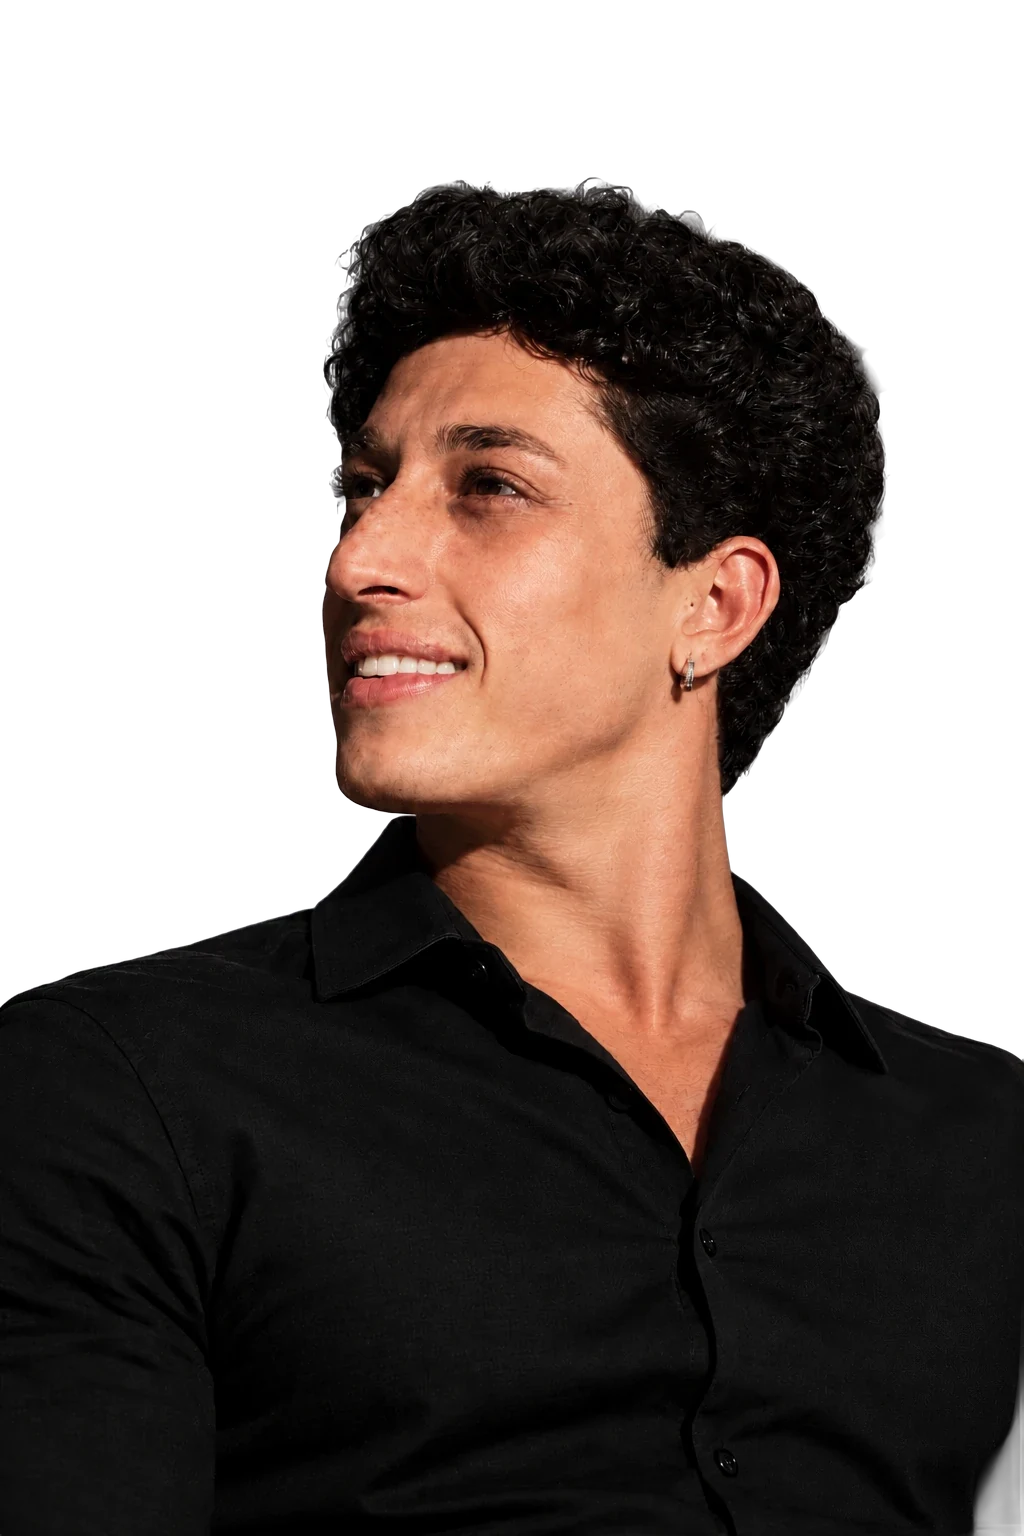
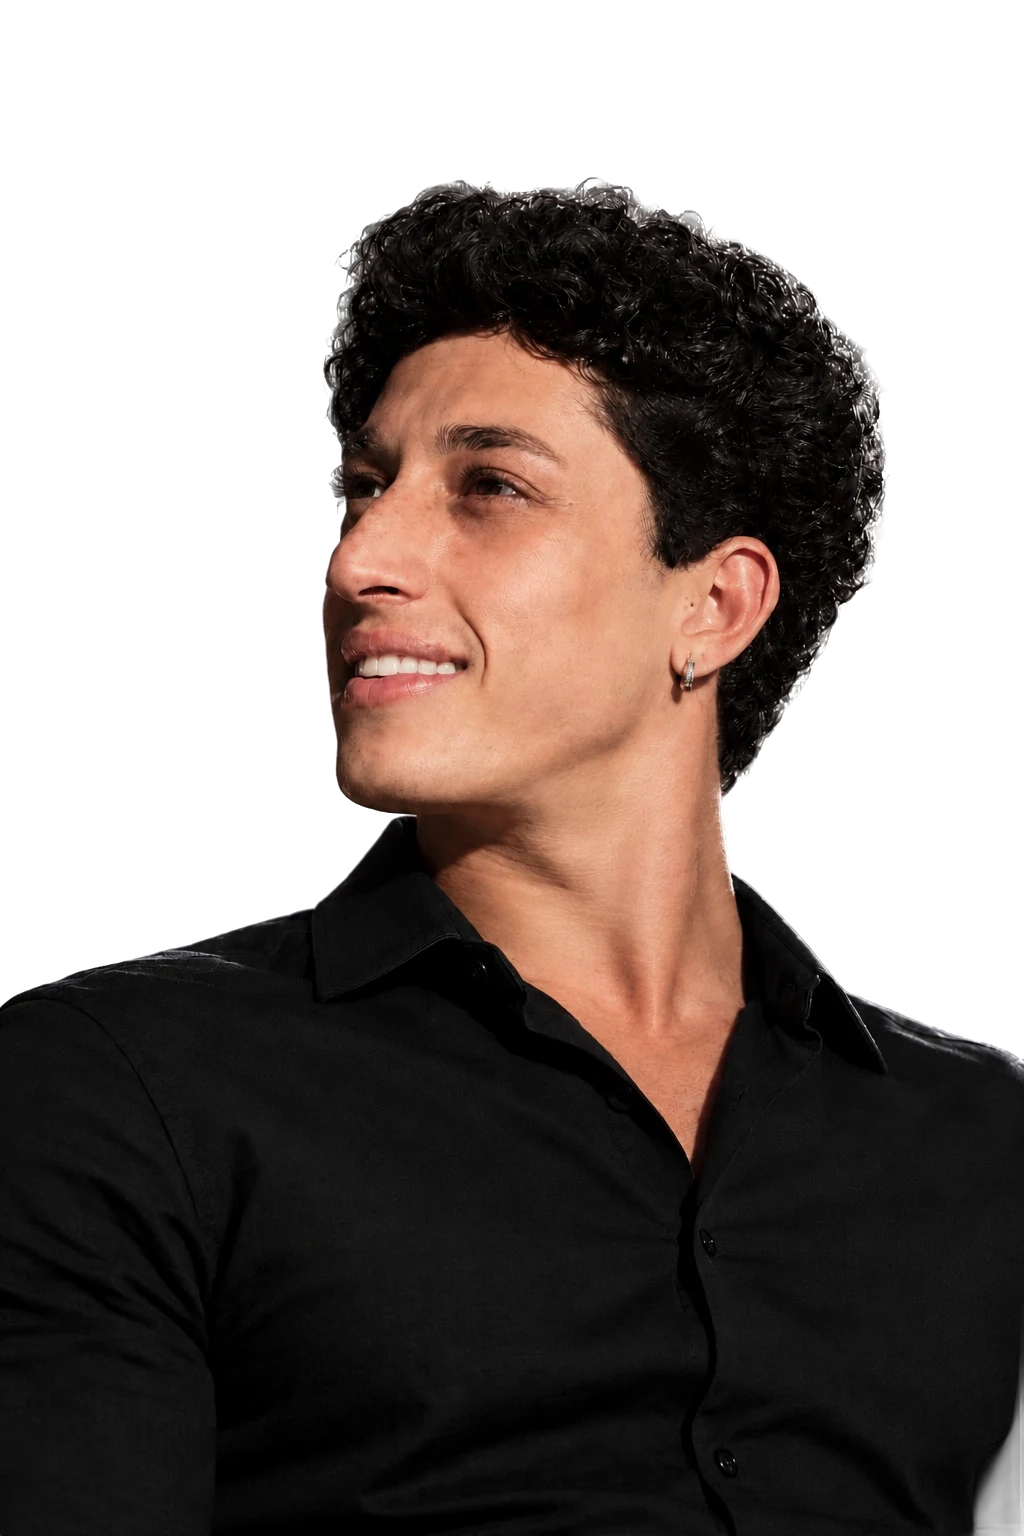
Hero com a foto nova, notebook já abre com os efeitos, frase final sem corte e 21 dias de suporte
- Hero: foto nova do Gabriel (mesmo enquadramento), recortada com o mesmo molde da anterior, então a luz de
  contorno, a luz laranja e a máscara dos ombros continuam iguais; borda do cabelo sem o cinza do estúdio.
  Um tamanho só (1024x1536, a resolução da foto); saem as versões 1536/2048 ampliadas da foto antiga
- Projetos: o vídeo do site começa quando o notebook entra, então a tampa já abre com os efeitos rodando
  (antes aparecia a imagem parada e o vídeo só entrava depois da tampa abrir); primeiro vídeo baixa mais cedo
- "Sites que vendem enquanto você dorme.": a máscara da animação cortava o acento de "você" e as pontas do
  itálico; ela passa um pouco das bordas da palavra (com margem negativa, o texto não sai do lugar)
- Suporte de 7 para 21 dias (FAQ e Termos de uso; data dos Termos atualizada)

Claude-Session: https://claude.ai/code/session_01VHr8XKmFyR6S9x4N3cgYgt

diff --git a/js/main.js b/js/main.js
@@ -441,8 +441,9 @@ document.querySelectorAll('.about-areas ol').forEach((list) => {
   if (slides.length) {
     const count = pj.querySelector('.pj-count b'), dots = [...pj.querySelectorAll('.pj-dots i')];
     let cur = -1, inView = false;
-    // vídeo do site na tela: começa do início quando a tampa termina de abrir (css: .3s + .65s) e só toca
-    // com a seção à vista; o do notebook que saiu para depois que ele some
+    // vídeo do site na tela: começa do início no momento em que o notebook entra, então a tampa já abre com os efeitos
+    // rodando (antes ele esperava a tampa abrir e aparecia antes a imagem parada do site). Só toca com a seção à
+    // vista; o do notebook que saiu para depois que ele some. A imagem fica embaixo só se o vídeo não carregar.
     const vid = (s) => s && s.querySelector('.lp-screen video');
     // dois tamanhos de cada vídeo: 960px (PC e tablet) e 720px (notebook pequeno, no celular); só baixa quando for tocar.
     // Modo leve: o vídeo NÃO some (regra da skill auditoria-site); fica sempre o de 720px, mais leve de decodificar
@@ -456,24 +457,22 @@ document.querySelectorAll('.about-areas ol').forEach((list) => {
       if (o) { o.canStart = false; setTimeout(() => { if (old !== slides[cur]) { o.pause(); o.classList.remove('is-on'); } }, 500); }
       const v = vid(s);
       if (!v || reduceMotion) return;
-      clearTimeout(v.startTimer);
-      v.canStart = false;
-      v.pause();
-      v.classList.remove('is-on');
       load(v);
-      v.startTimer = setTimeout(() => {
-        if (s !== slides[cur]) return;
-        v.canStart = true;
-        v.currentTime = 0;
-        if (inView) v.play().catch(() => {});
-      }, 950);
+      v.canStart = true;
+      if (v.readyState >= 1) v.currentTime = 0;
+      // já tem o primeiro quadro: mostra o vídeo na hora, sem passar pela imagem
+      if (v.readyState >= 2) v.classList.add('is-on');
+      if (inView) v.play().catch(() => {});
     };
     slides.forEach((s) => {
       const v = vid(s);
-      if (v) v.addEventListener('playing', () => {
-        v.classList.add('is-on');
+      if (!v) return;
+      const on = () => { if (s === slides[cur]) v.classList.add('is-on'); };
+      v.addEventListener('loadeddata', on);
+      v.addEventListener('playing', () => {
+        on();
         // fluidez: com este tocando, já baixa o vídeo do próximo projeto, para a troca não engasgar carregando e
-        // decodificando o vídeo novo bem na hora em que o notebook entra
+        // decodificando o vídeo novo bem na hora em que o notebook entra (e ele já abre com os efeitos)
         if (s === slides[cur]) load(vid(slides[(cur + 1) % slides.length]));
       });
     });
@@ -517,7 +516,7 @@ document.querySelectorAll('.about-areas ol').forEach((list) => {
         if (v && v.canStart) { if (inView) v.play().catch(() => {}); else v.pause(); }
       }).observe(pj);
       // o vídeo do primeiro projeto começa a baixar quando a seção chega perto
-      new IntersectionObserver(([e], o) => { if (e.isIntersecting) { o.disconnect(); load(vid(slides[0])); } }, { rootMargin: '600px 0px' })
+      new IntersectionObserver(([e], o) => { if (e.isIntersecting) { o.disconnect(); load(vid(slides[0])); } }, { rootMargin: '1200px 0px' })
         .observe(pj);
     } else show(0);
 
@@ -953,7 +952,7 @@ if (window.gsap && window.ScrollTrigger && !reduceMotion) {
   if (st) {
     gsap.registerPlugin(ScrollTrigger);
     const w = splitWords(st);
-    gsap.from(w, { yPercent: 118, rotation: 4, transformOrigin: '0% 100%', duration: 1.3, ease: 'expo.out', stagger: 0.06,
+    gsap.from(w, { yPercent: 140, rotation: 4, transformOrigin: '0% 100%', duration: 1.3, ease: 'expo.out', stagger: 0.06,
       scrollTrigger: { trigger: st, start: 'top 85%', once: true } });
   }
 }

diff --git a/index.html b/index.html
@@ -33,7 +33,7 @@
   <link rel="preconnect" href="https://fonts.gstatic.com" crossorigin>
   <link href="https://fonts.googleapis.com/css2?family=Instrument+Serif:ital@0;1&family=Inter+Tight:wght@400;500;600;700&display=swap" rel="stylesheet">
   <!-- foto da hero em 3 tamanhos (ampliada com IA, Real-ESRGAN): cada tela baixa só o que precisa; telas retina pegam a de 2048 px -->
-  <link rel="preload" as="image" href="img/gabriel-recorte.webp" imagesrcset="img/gabriel-recorte.webp 1024w, img/gabriel-recorte-1536.webp 1536w, img/gabriel-recorte-2048.webp 2048w" imagesizes="(max-width: 860px) 100vw, 79vh" fetchpriority="high">
+  <link rel="preload" as="image" href="img/gabriel-recorte.webp" fetchpriority="high">
   <!-- primeiro de tudo: recarregar volta ao topo e o modo leve para aparelhos fracos -->
   <script src="js/desempenho.js"></script>
   <link rel="stylesheet" href="css/style.css">
@@ -158,7 +158,7 @@
 
   <!-- Foto recortada: fica na frente do painel, como na referência -->
   <div class="person">
-    <img src="img/gabriel-recorte.webp" srcset="img/gabriel-recorte.webp 1024w, img/gabriel-recorte-1536.webp 1536w, img/gabriel-recorte-2048.webp 2048w" sizes="(max-width: 860px) 100vw, 79vh" alt="Gabriel Ribeiro, sorrindo e olhando para cima" width="1024" height="1536" fetchpriority="high">
+    <img src="img/gabriel-recorte.webp" alt="Gabriel Ribeiro, sorrindo e olhando para cima" width="1024" height="1536" fetchpriority="high">
     <span class="person-light" aria-hidden="true"></span>
     <!-- luz de contorno: a luz quente do fundo "abraçando" a borda do cabelo, do rosto e dos ombros, por dentro do
          recorte (img/gabriel-luz.webp, gerada a partir do recorte e das cores do fundo atrás de cada ponto) -->
@@ -713,7 +713,7 @@
         </div>
         <div class="faq-item" style="--i:8">
           <h3 class="faq-q"><button type="button" aria-expanded="false" aria-controls="faq-a9" id="faq-q9"><span class="faq-n">09</span><span class="faq-t">E depois que o site estiver no ar?</span><span class="faq-ico" aria-hidden="true"><i></i></span></button></h3>
-          <div class="faq-a" id="faq-a9" role="region" aria-labelledby="faq-q9"><div><p>Você tem <strong>7 dias de suporte</strong> depois da entrega e <strong>2 ajustes grátis</strong>, caso precise mudar alguma coisa. Depois disso, continuo disponível para novas páginas e melhorias.</p></div></div>
+          <div class="faq-a" id="faq-a9" role="region" aria-labelledby="faq-q9"><div><p>Você tem <strong>21 dias de suporte</strong> depois da entrega e <strong>2 ajustes grátis</strong>, caso precise mudar alguma coisa. Depois disso, continuo disponível para novas páginas e melhorias.</p></div></div>
         </div>
         </div>
       </div>

diff --git a/css/style.css b/css/style.css
@@ -942,9 +942,9 @@ a { color: inherit; text-decoration: none; }
 .pj-slide:is(.is-active, .is-leaving) .lp-screen img { animation: lp-scroll 44s cubic-bezier(.25, .05, .55, 1) 2s infinite alternate; }
 .pj.is-paused .lp-screen img { animation-play-state: paused; }
 @media (hover: hover) { .laptop:hover .lp-screen img { animation-play-state: paused; } }
-/* vídeo do site com os efeitos (js/main.js dá play quando a tampa abre): cobre a captura quando já está
+/* vídeo do site com os efeitos (js/main.js dá play quando o notebook entra, a tampa já abre com ele): cobre a captura quando já está
    tocando; se não carregar, a captura rolando continua lá embaixo */
-.lp-screen video { position: absolute; inset: 0; width: 100%; height: 100%; object-fit: cover; object-position: top; opacity: 0; transition: opacity .4s; }
+.lp-screen video { position: absolute; inset: 0; width: 100%; height: 100%; object-fit: cover; object-position: top; opacity: 0; }   /* sem esmaecer: a imagem parada não aparece no meio */
 .lp-screen video.is-on { opacity: 1; }
 .lp-screen:has(video.is-on) img { visibility: hidden; }
 
@@ -2154,7 +2154,9 @@ html.leve .nc-more-go::after { animation: none; }
   font-family: "Instrument Serif", Georgia, "Times New Roman", serif; font-style: italic; font-weight: 400;
   letter-spacing: -.02em; color: var(--orange);
 }
-.faq-statement .word-mask { display: inline-block; overflow: hidden; vertical-align: top; padding-bottom: .08em; margin-bottom: -.08em; }
+/* a máscara (overflow: hidden) passa um pouco das bordas da palavra: o itálico inclina para fora da caixa e cortava
+   o acento de "você", a ponta do "d" e o pé do "q"; a margem negativa devolve o espaço, o texto não sai do lugar */
+.faq-statement .word-mask { display: inline-block; overflow: hidden; vertical-align: top; padding: .16em .14em .18em; margin: -.16em -.14em -.18em; }
 .faq-statement .word { display: inline-block; }
 @media (max-width: 860px) { .faq-statement { margin-top: 36px; font-size: clamp(42px, 12.5vw, 64px); max-width: 12ch; } }
 /* frase da chamada separada em palavras (GSAP): o degradê do destaque não pode pegar as outras palavras (que também

diff --git a/termos.html b/termos.html
@@ -64,7 +64,7 @@
       <h1 class="doc-title">Termos e <em>Condições</em></h1>
       <p class="doc-lead">As regras para usar este site e o que vale quando você pede um orçamento. Escrito de forma direta, sem juridiquês desnecessário.</p>
       <ul class="doc-meta">
-        <li><svg viewBox="0 0 16 16" aria-hidden="true"><rect x="2.5" y="3.5" width="11" height="10" rx="2"/><path d="M2.5 6.5h11M5.5 2v3M10.5 2v3"/></svg>Última atualização: <time datetime="2026-11-03">3 de novembro de 2026</time></li>
+        <li><svg viewBox="0 0 16 16" aria-hidden="true"><rect x="2.5" y="3.5" width="11" height="10" rx="2"/><path d="M2.5 6.5h11M5.5 2v3M10.5 2v3"/></svg>Última atualização: <time datetime="2026-11-11">11 de novembro de 2026</time></li>
         <li><svg viewBox="0 0 16 16" aria-hidden="true"><circle cx="8" cy="8" r="5.5"/><path d="M8 5v3l2 1.5"/></svg>Leitura de 4 min</li>
       </ul>
     </div>
@@ -131,7 +131,7 @@
       </section>
       <section class="doc-sec" id="bonus" aria-labelledby="bonus-t">
         <h2 id="bonus-t"><b>06</b>Bônus e suporte</h2>
-        <p>Todo site contratado sai com dois bônus: a <strong>configuração do Google Meu Negócio</strong> (Perfil da Empresa no Google) e <strong>2 ajustes grátis</strong> depois da entrega, além de <strong>7 dias de suporte</strong>.</p>
+        <p>Todo site contratado sai com dois bônus: a <strong>configuração do Google Meu Negócio</strong> (Perfil da Empresa no Google) e <strong>2 ajustes grátis</strong> depois da entrega, além de <strong>21 dias de suporte</strong>.</p>
         <ul>
           <li>Os ajustes grátis servem para pequenas correções e mudanças no que já foi entregue; o que entra em cada ajuste é combinado na proposta. Novas páginas e funções são orçadas à parte.</li>
           <li>A aparição da empresa no Google Maps e nas buscas depende das regras e da análise do próprio Google, que pode pedir a verificação do endereço ou do negócio.</li>
